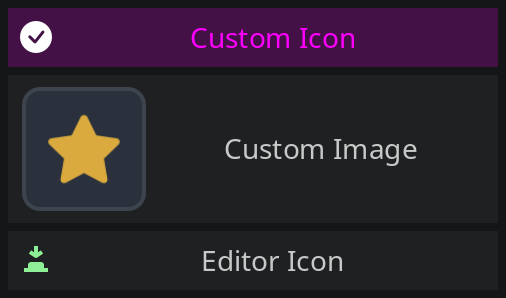
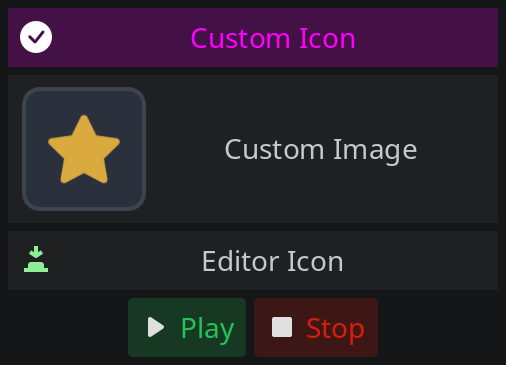
Multiple buttons

diff --git a/README.md b/README.md
@@ -40,23 +40,45 @@ There are four colors available that you can use as the second word.
 
 ## Advanced buttons
 
-With advanced buttons you can use icons (build-in or custom) and more. See examplex:
+With advanced buttons you can use icons (build-in or custom), having multiple buttons in row and more. See examples:
 
 <img src=".assets/advanced.png" width="300" />
 
 ```gdscript
-@export var btn_advanced = {
-  "icon": "res://icon.svg",
-  "color": "#FF00FF",
-  "text": "Awesome",
-  "click": func(): update(),
-}
+@export var btn_advanced: Array:
+  get: return [{
+    "icon": "res://icons/check.svg",
+    "color": "#FF00FF",
+    "text": "Custom Icon",
+    "click": func(): update(),
+  }]
 
-# Uses a built-in Godot icon called "Button". Try another like "Node".
-@export var btn_editor_icon = {
-  "icon": "Button",
-  "click": func(): update(),
-}
+@export var btn_custom_image: Array:
+  get: return [{
+    "icon": "res://icons/image.png",
+    "click": func(): update(),
+  }]
+
+@export var btn_editor_icon: Array:
+  get: return [{
+    "icon": "Button",
+    "fill": true,
+    "click": func(): update(),
+  }]
+
+@export var btn_mutiple_buttons: Array:
+  get: return [
+    {
+      "text": "Play",
+      "icon": "Play",
+      "click": func(): update(),
+    },
+    {
+      "text": "Stop",
+      "icon": "Stop",
+      "click": func(): update(),
+    }
+  ]
 ```
 
 | Property | Description                                                                 |
@@ -65,14 +87,17 @@ With advanced buttons you can use icons (build-in or custom) and more. See examp
 | icon     | Icon name of EditorIcons (see below) or path to your image (svg, png, etc). |
 | color    | Color name (see above) or custom hex string or Color object.                |
 | text     | Text for the button. Uses the variable name if not set.                     |
+| fill     | The button will use the full available width.                               |
 
 All properties are optional. But a button without "click" makes no sense.
 
-> For EditorIcons see https://github.com/godotengine/godot/tree/master/editor/icons
+Since the you export an Array, you can use multiple buttons in row. You can also only return a Dictionary.
 
-> Note: Changes within an exported dictations will not update until you change the variable name. You could rename, save and revert again.
+> For EditorIcons see https://github.com/godotengine/godot/tree/master/editor/icons (it should also be visible in autocomplete panel)
 
-> Note: The advanced buttons require this addon. The bool buttons work without this addon.
+> Note: Changes within exported Array/Dictionary will not update until you change the variable name. You could rename, save and revert again. A workaround is using getter only. So that the editor value does not persist. Because the value is stored in scene (tscn).
+
+> Note: The advanced buttons require this addon and is currently experimental. The bool buttons work without this addon.
 
 ## FAQ
 
@@ -81,7 +106,7 @@ All properties are optional. But a button without "click" makes no sense.
 Try one of the following:
 
 - Reload the scene: Scene > Reload Saved Scene.
-- If you are using advanced buttons, try renaming the exported variable.
+- If you are using advanced buttons, try renaming the exported variable or use getter only.
 - Re-enable the addon: Project > Project Settings... > Plugins.
 - Restart Godot.
 
@@ -96,6 +121,10 @@ Because this is currently the way to implement button-like behavior in Godot ins
 ### Can I change the color or show an icon?
 
 Yes, you can change the color and icon. See examples above. Icons are only possible for advanced buttons (which requires this addon).
+
+### Why use get for advanced buttons?
+
+This prevents the editor from storing values persistently. Otherwise, you will have to rename the variable name when you change a value. Currently, the best solution is to use `get`.
 
 ## Support
 
